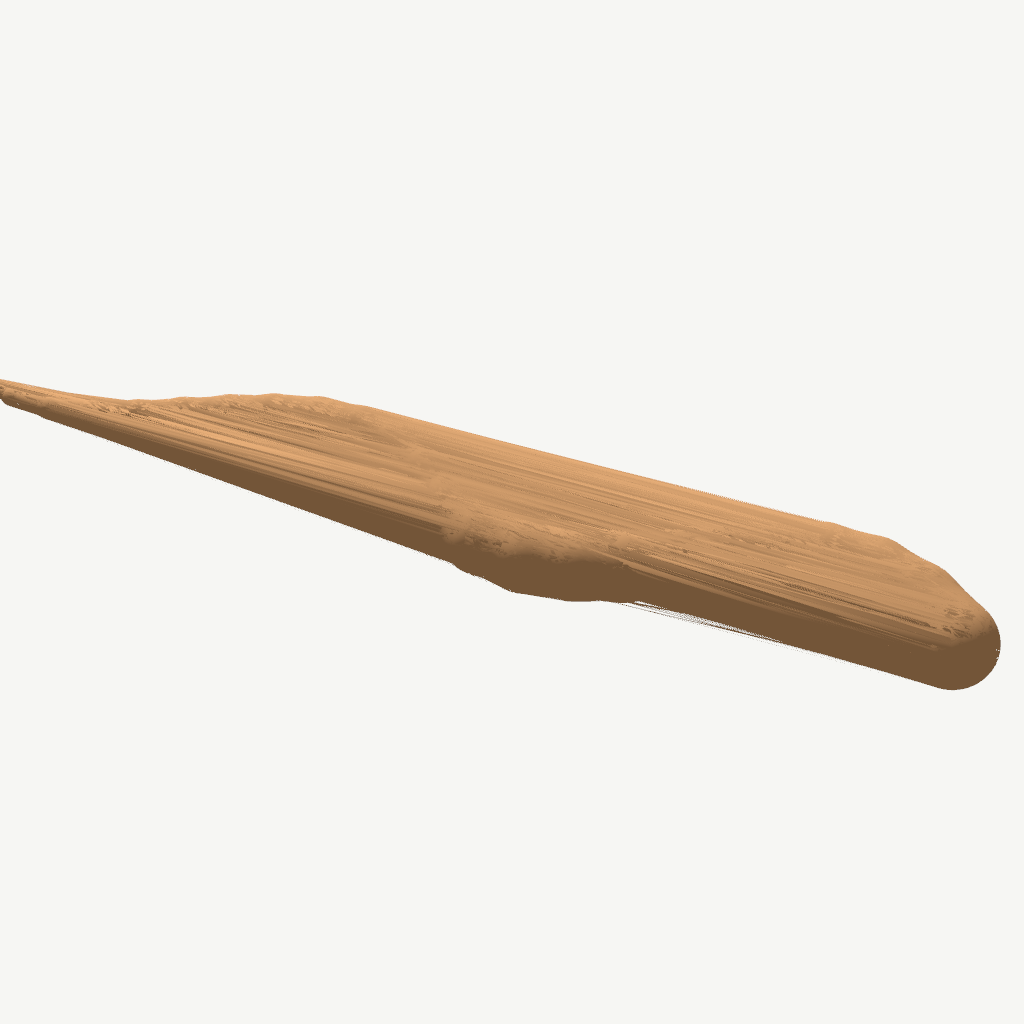
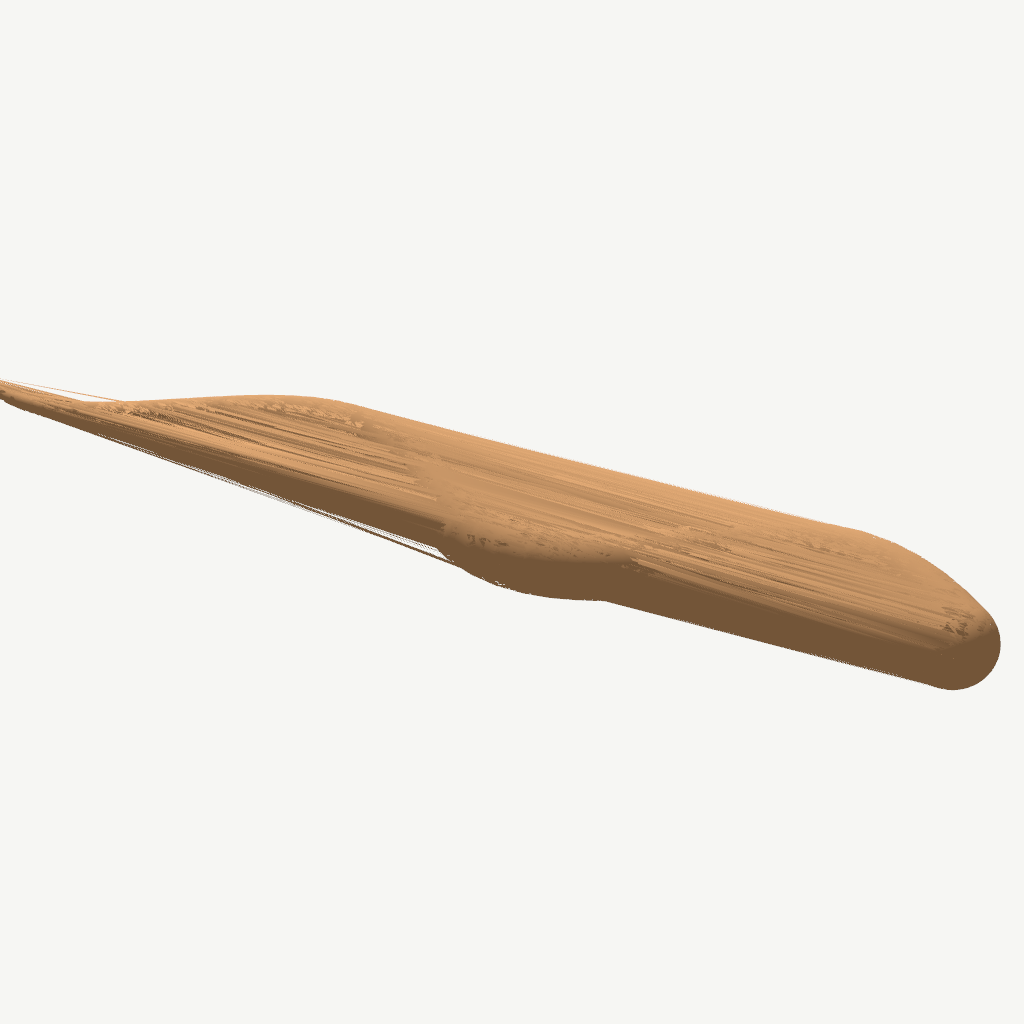
Fix TubePath tearing: closest-point SDF instead of min-of-segments
Replaced min-of-tapered-capsules with a single continuous closest-point
query across the polyline. For each segment, finds the closest point
and its squared distance, tracks the global minimum, returns
sqrt(best_d2) - interpolated_radius. No min/smin junctions, so no
normal discontinuities at segment boundaries.

48 segments at 384³ MC resolution produces a smooth snake body with
clean taper. Faint artifacts remain at the thin transition zone where
Voronoi boundaries between segments approach the surface.

MC normal epsilon increased to 0.003 for smoother gradient sampling.

Changed region(s): [[0.0, 0.375, 0.4375, 0.5625], [0.5938, 0.5312, 0.9375, 0.6562], [0.5312, 0.5, 0.5938, 0.5312]]

diff --git a/crates/reflow_sdf/src/codegen.rs b/crates/reflow_sdf/src/codegen.rs
@@ -128,37 +128,40 @@ impl CodegenContext {
             SdfPrimitive::TaperedCapsule { a, b, radius_a, radius_b } =>
                 format!("sdf_tapered_capsule({}, vec3f({:.6}, {:.6}, {:.6}), vec3f({:.6}, {:.6}, {:.6}), {:.6}, {:.6})",
                     pos, a[0], a[1], a[2], b[0], b[1], b[2], radius_a, radius_b),
-            SdfPrimitive::TubePath { points, radii, k } => {
-                // Emit an inline loop that evaluates min distance across all segments
+            SdfPrimitive::TubePath { points, radii, k: _ } => {
+                // Emit a function that finds the closest point on the polyline
+                // and returns distance minus interpolated radius. Single continuous
+                // evaluation — no min/smin junctions, no normal discontinuities.
                 let n = points.len().min(radii.len());
                 if n < 2 {
                     "999.0".to_string()
                 } else {
-                    // Generate unique function name
                     let fn_name = format!("sdf_tube_{}", var);
                     let mut func = format!("fn {}(p: vec3f) -> f32 {{\n", fn_name);
-                    func.push_str("  var d = 999.0;\n");
-                    let use_smin = *k > 0.001;
+                    // Find closest point on polyline + interpolated radius
+                    func.push_str("  var best_d2 = 1e10;\n");
+                    func.push_str("  var best_r = 0.0;\n");
                     for i in 0..n - 1 {
                         let a = points[i];
                         let b = points[i + 1];
                         let ra = radii[i];
                         let rb = radii[i + 1];
-                        if use_smin {
-                            self.uses_smooth_ops = true;
-                            func.push_str(&format!(
-                                "  d = smin(d, sdf_tapered_capsule(p, vec3f({:.6}, {:.6}, {:.6}), vec3f({:.6}, {:.6}, {:.6}), {:.6}, {:.6}), {:.6});\n",
-                                a[0], a[1], a[2], b[0], b[1], b[2], ra, rb, k
-                            ));
-                        } else {
-                            func.push_str(&format!(
-                                "  d = min(d, sdf_tapered_capsule(p, vec3f({:.6}, {:.6}, {:.6}), vec3f({:.6}, {:.6}, {:.6}), {:.6}, {:.6}));\n",
-                                a[0], a[1], a[2], b[0], b[1], b[2], ra, rb
-                            ));
-                        }
+                        func.push_str(&format!(
+                            "  {{\n    let a = vec3f({:.6}, {:.6}, {:.6});\n    let b = vec3f({:.6}, {:.6}, {:.6});\n",
+                            a[0], a[1], a[2], b[0], b[1], b[2]
+                        ));
+                        func.push_str("    let ba = b - a;\n");
+                        func.push_str("    let pa = p - a;\n");
+                        func.push_str("    let h = clamp(dot(pa, ba) / dot(ba, ba), 0.0, 1.0);\n");
+                        func.push_str("    let closest = pa - ba * h;\n");
+                        func.push_str("    let d2 = dot(closest, closest);\n");
+                        func.push_str(&format!(
+                            "    let r = mix({:.6}, {:.6}, h);\n", ra, rb
+                        ));
+                        func.push_str("    if d2 < best_d2 { best_d2 = d2; best_r = r; }\n");
+                        func.push_str("  }\n");
                     }
-                    func.push_str("  return d;\n}\n");
-                    // Prepend the function before sdf_scene
+                    func.push_str("  return sqrt(best_d2) - best_r;\n}\n");
                     self.helpers.push(func);
                     format!("{}({})", fn_name, pos)
                 }

diff --git a/examples/skeleton_animation/shape_test.rs b/examples/skeleton_animation/shape_test.rs
@@ -45,8 +45,8 @@ async fn main() -> anyhow::Result<()> {
     net.add_node("snake", "tpl_sdf_path", config(json!({
         "path": "M -2.5,0 C -1.5,-1.0 -0.5,1.0 0.5,0 C 1.5,-0.8 2.5,0.6 3.5,0.2",
         "profile": [0.25, 0.23, 0.21, 0.20, 0.20, 0.18, 0.15, 0.11, 0.07, 0.03],
-        "segments": 24,
-        "smoothness": 0.04,
+        "segments": 48,
+        "smoothness": 0.0,
         "plane": "xz",
     })))?;
 

diff --git a/crates/reflow_sdf/src/marching_cubes.rs b/crates/reflow_sdf/src/marching_cubes.rs
@@ -83,7 +83,7 @@ fn mc_interp(p1: vec3f, p2: vec3f, v1: f32, v2: f32, iso: f32) -> vec3f {
 }
 
 fn mc_normal(p: vec3f) -> vec3f {
-  let e = 0.001;
+  let e = 0.003;
   return normalize(vec3f(
     sdf_scene(p + vec3f(e, 0.0, 0.0)) - sdf_scene(p - vec3f(e, 0.0, 0.0)),
     sdf_scene(p + vec3f(0.0, e, 0.0)) - sdf_scene(p - vec3f(0.0, e, 0.0)),
